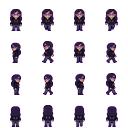
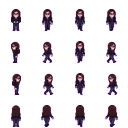
Fix Georgina's walk sheet rows + add walk-sheet compliance check to the sprite skill
The side rows (left/right) of Georgina's walk sheet came back inconsistent /
front-facing, so the sideways walk looked wrong. Two changes:

1. generate_sprite.py now ENFORCES the retro convention for directional walk
   sheets (human-overworld): the RIGHT row is replaced with the exact horizontal
   mirror of the LEFT row, so left/right always face opposite ways. Image
   generation rarely draws them as true mirrors; this guarantees a correct,
   consistent side walk by construction. New --keep-side-rows opts out for a
   hand-drawn opposite-profile sheet. Georgina's sheet regenerated + mirrored.

2. validate_sprites.py gained a walk-sheet viewpoint check (rows marked by a new
   `viewpoint_rows` key in sprite-specs.json): ERRORs on near-duplicate rows (a
   direction showing the wrong/duplicate pose) and WARNs when the right row isn't
   the left's mirror. It runs automatically after generation and over the asset
   tree. Calibrated so no shipped sheet errors; the few hand-drawn opposite-
   profile sheets only warn. (Whether a side row is a true profile vs a front
   view can't be told apart by pixels across characters — the deterministic
   mirror is the guarantee, the check is the verification.)

Docs: CLAUDE.md walk-sheet gotcha updated.

diff --git a/.claude/skills/generate-sprite-sheet/scripts/validate_sprites.py b/.claude/skills/generate-sprite-sheet/scripts/validate_sprites.py
@@ -211,6 +211,96 @@ def _check_sheet(img, spec, rep) -> None:
         cspread = max(centres) - min(centres)
         if cspread > max(2, round(fw * 0.20)):
             rep.warn(f"frame horizontal centres vary by {cspread:.0f}px")
+    # Directional walk sheets (human-overworld): rows must be distinct
+    # down/left/right/up viewpoints, or the walk animation faces the wrong way.
+    if spec.get("viewpoint_rows") and rows == 4:
+        _check_walk_viewpoints(img, spec, rep)
+
+
+# --------------------------------------------------------------------------- #
+# Walk-sheet viewpoint compliance (the down/left/right/up rows)
+# --------------------------------------------------------------------------- #
+def _row_signature(img, fw, fh, cols, r):
+    """Average luma + union mask of a row's frames (left to right), taken AS DRAWN
+    — no per-frame re-centring, so a true left/right mirror pair compares as an
+    exact mirror (the snap step already bottom-centre-aligns the frames). Returns
+    (luma[H,W] float, mask[H,W] bool) or (None, None) if the row is empty."""
+    import numpy as np
+    lsum = msum = None
+    for c in range(cols):
+        cell = img.crop((c * fw, r * fh, (c + 1) * fw, (r + 1) * fh)).convert("RGBA")
+        arr = np.asarray(cell, dtype=np.float32)
+        m = arr[..., 3] > ALPHA_CONTENT
+        if m.sum() < 20:
+            continue
+        luma = 0.299 * arr[..., 0] + 0.587 * arr[..., 1] + 0.114 * arr[..., 2]
+        lm, mm = np.where(m, luma, 0.0), m.astype(np.float32)
+        lsum = lm if lsum is None else lsum + lm
+        msum = mm if msum is None else msum + mm
+    if msum is None:
+        return None, None
+    mask = msum >= 1
+    avg = np.zeros_like(lsum)
+    avg[mask] = lsum[mask] / msum[mask]
+    return avg, mask
+
+
+def _masked_mae(la, ma, lb, mb):
+    both = ma & mb
+    if both.sum() < 20:
+        return None
+    import numpy as np
+    return float(np.abs(la[both] - lb[both]).mean())
+
+
+def _check_walk_viewpoints(img, spec, rep) -> None:
+    """A 4×4 directional walk sheet should read as four distinct views — row 0
+    down (full face), row 1 LEFT, row 2 RIGHT, row 3 up (back of the head). This
+    guards the two ways the in-game walk animation breaks:
+
+      * ERROR — two rows are near-identical: a facing direction that shows the
+        wrong/duplicate pose. Reliable (no shipped sheet trips it).
+      * WARN — the RIGHT row isn't the horizontal mirror of the LEFT row. The
+        generator authors side walks as exact mirrors so left and right always
+        face opposite ways; a mismatch usually means that step was skipped (the
+        "georgina faces you while walking sideways" bug). Only a WARN because a
+        hand-drawn sheet may use two separately drawn opposite profiles
+        (npc_old_man, lifter_rod), which is also correct — eyeball, don't fail.
+
+    Whether a side row is a true left/right PROFILE or a front view can't be told
+    apart reliably by pixels across characters (size, detail and the walk cycle
+    confound every metric), so the generator's deterministic left→right mirror is
+    the real guarantee and this is the verification. Skips if numpy is missing."""
+    try:
+        import numpy as np  # noqa: F401
+    except Exception:
+        return
+    fw, fh, cols = spec["frame_width"], spec["frame_height"], spec["cols"]
+    names = spec.get("viewpoint_rows", ["down", "left", "right", "up"])
+    sigs = [_row_signature(img, fw, fh, cols, r) for r in range(4)]
+    if any(s[0] is None for s in sigs):
+        return  # empty frames already errored in _check_sheet
+    (_dl, _dm), (ll, lm), (rl, rm), (_ul, _um) = sigs
+    # ERROR: no two rows may be near-duplicates (a repeated pose kills a direction)
+    for i in range(4):
+        for j in range(i + 1, 4):
+            d = _masked_mae(sigs[i][0], sigs[i][1], sigs[j][0], sigs[j][1])
+            if d is not None and d < 4.0:
+                rep.err(
+                    f"walk sheet: the '{names[i]}' and '{names[j]}' rows are "
+                    f"near-identical (diff {d:.1f}px) — each facing direction "
+                    f"must be its own distinct viewpoint."
+                )
+    # WARN: the RIGHT row should be the horizontal mirror of the LEFT row.
+    flip = _masked_mae(ll, lm, rl[:, ::-1], rm[:, ::-1])
+    if flip is not None and flip > 6.0:
+        rep.warn(
+            f"walk sheet: the '{names[2]}' row is not the horizontal mirror of "
+            f"the '{names[1]}' row (off by {flip:.0f}px). Generated sheets mirror "
+            f"the right row from the left so the side walks face opposite ways — "
+            f"if this was generated, re-run/mirror it; if it's hand-drawn opposite "
+            f"profiles, ignore."
+        )
 
 
 # --------------------------------------------------------------------------- #

diff --git a/.claude/skills/generate-sprite-sheet/scripts/generate_sprite.py b/.claude/skills/generate-sprite-sheet/scripts/generate_sprite.py
@@ -238,6 +238,24 @@ def snap_single(src: Image.Image, spec: dict, resample: str) -> Image.Image:
     return fit_to_frame(src, fw, fh, spec["anchor"], spec["fill"], resample)
 
 
+def mirror_side_rows(sheet: Image.Image, spec: dict) -> Image.Image:
+    """Make the RIGHT row the exact horizontal mirror of the LEFT row on a
+    directional walk sheet — the retro convention (every shipped sheet does it),
+    so a character that walks left and one that walks right face opposite ways.
+    Row indices come from the spec's `viewpoint_rows` order. No-op if either row
+    isn't present."""
+    fw, fh, cols = spec["frame_width"], spec["frame_height"], spec["cols"]
+    vps = spec.get("viewpoint_rows") or []
+    if "left" not in vps or "right" not in vps:
+        return sheet
+    li, ri = vps.index("left"), vps.index("right")
+    out = sheet.convert("RGBA").copy()
+    for c in range(cols):
+        left = out.crop((c * fw, li * fh, c * fw + fw, li * fh + fh)).transpose(Image.FLIP_LEFT_RIGHT)
+        out.paste(left, (c * fw, ri * fh))
+    return out
+
+
 def snap_sheet(src: Image.Image, spec: dict, resample: str, align: bool) -> Image.Image:
     """Snap a multi-frame sheet to its exact grid.
 
@@ -337,6 +355,12 @@ def main() -> int:
     p.add_argument("--from-image", help="Skip the API call and post-process this existing transparent PNG instead.")
     p.add_argument("--keep-temp", action="store_true", help="Keep the raw high-res generated PNG next to the output.")
     p.add_argument("--max-retries", type=int, default=2, help="API retry count passed to generate-image.")
+    p.add_argument("--keep-side-rows", action="store_true",
+                   help="For directional walk sheets (human-overworld), DON'T enforce the "
+                        "retro convention of mirroring the left row onto the right. By default "
+                        "the right row is replaced with the exact horizontal mirror of the left "
+                        "(image generation rarely draws them as true mirrors, which makes the "
+                        "side-facing walk face the wrong way); pass this to keep both as drawn.")
     p.add_argument("--list-types", action="store_true", help="List sprite types and exit.")
     args = p.parse_args()
 
@@ -384,7 +408,10 @@ def main() -> int:
     chroma_path = args.provider == "openai"
     transparency_method = "chroma_key" if chroma_path else "native"
 
+    walk_sheet = bool(spec.get("viewpoint_rows")) and spec["rows"] == 4
+
     with tempfile.TemporaryDirectory() as td:
+        gen_info = {}
         if args.from_image:
             src_path = Path(args.from_image).expanduser().resolve()
             if not src_path.is_file():
@@ -418,6 +445,16 @@ def main() -> int:
             result = snap_sheet(source, spec, args.resample, align=not args.no_align)
         else:
             result = snap_single(source, spec, args.resample)
+
+        # Directional walk sheets: image generation draws the left and right rows
+        # independently and almost never as true mirrors, so the side-facing walk
+        # ends up facing the wrong way (or left and right look identical). Enforce
+        # the authored retro convention — the RIGHT row is the exact horizontal
+        # mirror of the LEFT row — so every generated sheet is animation-correct by
+        # construction (the validator's walk-viewpoint check verifies this).
+        if walk_sheet and not args.keep_side_rows:
+            result = mirror_side_rows(result, spec)
+            gen_info["right_row_mirrored_from_left"] = True
 
         result.save(out_path, format="PNG", optimize=True)
 

diff --git a/CLAUDE.md b/CLAUDE.md
@@ -522,7 +522,15 @@ keep entries one or two lines, concrete, and prune what's gone stale.
   bit `player_indi`). The `human-overworld` template in `sprite-specs.json` now spells out each
   viewpoint (down=full face, left=left profile, right=mirror, **up=back of head in EVERY column
   incl. walk frames, no face**). After regenerating a walk sheet, eyeball the 4×4 grid and
-  confirm the up row shows the back of the head in all 4 cells before repacking.
+  confirm the up row shows the back of the head in all 4 cells before repacking. **The
+  generator now ENFORCES the side mirror**: `generate_sprite.py` replaces the RIGHT row with the
+  exact horizontal mirror of the LEFT row (image gen rarely draws true mirror profiles, which
+  made the side walk face the wrong way — the "georgina faces you walking sideways" bug); pass
+  `--keep-side-rows` to opt out for a hand-drawn opposite-profile sheet. `validate_sprites.py`
+  verifies walk sheets (marked by `viewpoint_rows` in the spec): it ERRORs on near-duplicate rows
+  and WARNs when the right row isn't the left's mirror. (Whether a side row is a true profile vs a
+  front view can't be told apart by pixels across characters — the deterministic mirror is the
+  guarantee, the check is the verification.)
 - **Fills tile into a grid unless vignette-flattened.** `deborder` fixes only the outer
   ring; the cure is `flatten_vignette` (fills) + `flatten_axis` (edges, along the tiling
   axis), edge variants by flip (never roll), edges value-matched to their fill. Interior
